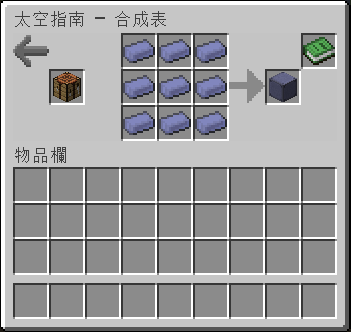
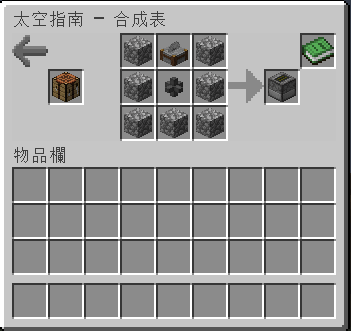
GitBook: [#134] No subject

diff --git a/item/Block-Breaker.md b/item/Block-Breaker.md
@@ -1,0 +1,25 @@
+# ⚡ 碎石機
+
+![](<../.gitbook/assets/image (218).png>)
+
+碎石機是一種[通電機器](../space/energy-systems.md)，可以以消耗能量為代價粉碎一個方塊。
+
+## 獲得
+
+### 製作
+
+碎石機可以使用以下物品製作：
+
+![](<../.gitbook/assets/image (233).png>)
+
+* 1 [導管](Conduit.md)
+* 1 切石機
+* 7 鵝卵石
+
+## 用法
+
+### 啟動
+
+碎石機可以通過[導管](Conduit.md)接收能量。
+
+一旦能量達到 50，碎石機 就會粉碎其上方的方塊。

diff --git a/SUMMARY.md b/SUMMARY.md
@@ -30,6 +30,7 @@
   * [⚡ 電解冷凝器](item/Electrolytic-Condenser.md)
   * [⚡ 地熱發電機](item/Geothermal-Generator.md)
   * [⚡ 輻射保護器](item/Electron-Belt-Generator.md)
+  * [⚡ 碎石機](item/Block-Breaker.md)
   * [⚙ 模組化工作台](item/Modular-Workbench.md)
   * [⚙ 火箭](item/rocket.md)
   * [⚙ 太空服裝訂製](item/suit-fabricator.md)

diff --git a/item/Wireless-Charging-Station.md b/item/Wireless-Charging-Station.md
@@ -2,7 +2,7 @@
 
 
 
-![](<../.gitbook/assets/image (218) (1) (1) (1) (1).png>)
+![](<../.gitbook/assets/image (218) (1) (1) (1) (1) (1).png>)
 
 無線充電站是一種[通電機器](../space/energy-systems.md)，可用於為玩家庫存中的通電物品充電。
 

diff --git a/item/Titanium-Workbench.md b/item/Titanium-Workbench.md
@@ -10,7 +10,7 @@
 
 鈦工作台可以使用以下物品製作：
 
-![](<../.gitbook/assets/image (218) (1) (1).png>)
+![](<../.gitbook/assets/image (218) (1) (1) (1).png>)
 
 * 4[鋁合金錠](aluminium-alloy-ingot.md)
 * 4[鈀錠](palladium-ingot.md)

diff --git a/item/Reinforced-aluminium-alloy-block.md b/item/Reinforced-aluminium-alloy-block.md
@@ -10,6 +10,6 @@
 
 一塊鋁合金可以使用以下物品製作：
 
-![](<../.gitbook/assets/image (218).png>)
+![](<../.gitbook/assets/image (218) (1).png>)
 
 * 9 [強化鋁合金錠](reinforced-aluminium-alloy-ingot.md)

diff --git a/item/Reinforced-Palladium-Block.md b/item/Reinforced-Palladium-Block.md
@@ -10,6 +10,6 @@
 
 一塊強化鈀塊可以使用以下物品製作：
 
-![](<../.gitbook/assets/image (218).png>)
+![](<../.gitbook/assets/image (218) (1).png>)
 
 * 9 [強化鈀錠](reinforced-palladium-ingot.md)

diff --git a/item/Handheld-Fan.md b/item/Handheld-Fan.md
@@ -1,6 +1,6 @@
 # 🎲 手持風扇
 
-![](<../.gitbook/assets/image (218) (1).png>)
+![](<../.gitbook/assets/image (218) (1) (1).png>)
 
 手持風扇是一種小工具，可幫助在炎熱行星時降溫。
 

diff --git a/item/Palladium-Block.md b/item/Palladium-Block.md
@@ -10,6 +10,6 @@
 
 一塊鈀塊可以使用以下物品製作：
 
-![](<../.gitbook/assets/image (218).png>)
+![](<../.gitbook/assets/image (218) (1).png>)
 
 * 9 [鈀錠](palladium-ingot.md)

diff --git a/item/Titanium-Block.md b/item/Titanium-Block.md
@@ -10,6 +10,6 @@
 
 一塊鈦塊可以使用以下物品製作：
 
-![](<../.gitbook/assets/image (218).png>)
+![](<../.gitbook/assets/image (218) (1).png>)
 
 * 9 [鈦錠](titanium-ingot.md)

diff --git a/item/Tank-Refiller-1.md b/item/Tank-Refiller-1.md
@@ -14,7 +14,7 @@
 
 氧氣補充器可以使用以下物品製作：
 
-![](<../.gitbook/assets/image (218) (1) (1) (1).png>)
+![](<../.gitbook/assets/image (218) (1) (1) (1) (1).png>)
 
 
 

diff --git a/item/Tank-Refiller.md b/item/Tank-Refiller.md
@@ -14,7 +14,7 @@
 
 氧氣補充器可以使用以下物品製作：
 
-![](<../.gitbook/assets/image (218) (1) (1) (1).png>)
+![](<../.gitbook/assets/image (218) (1) (1) (1) (1).png>)
 
 
 

diff --git a/item-1/qian-kuai.md b/item-1/qian-kuai.md
@@ -10,7 +10,7 @@
 
 鉛塊可以使用以下物品製作：
 
-![](<../.gitbook/assets/image (233).png>)
+![](<../.gitbook/assets/image (233) (1).png>)
 
 * 9[鉛錠](Lead-Ingot.md)
 
